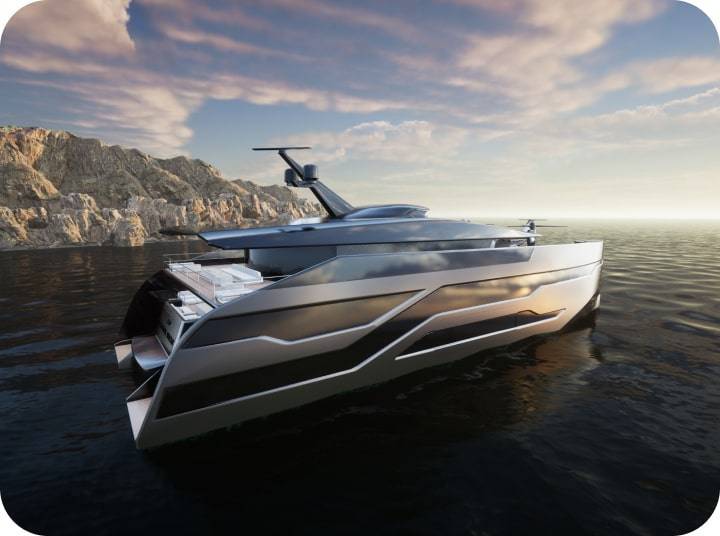
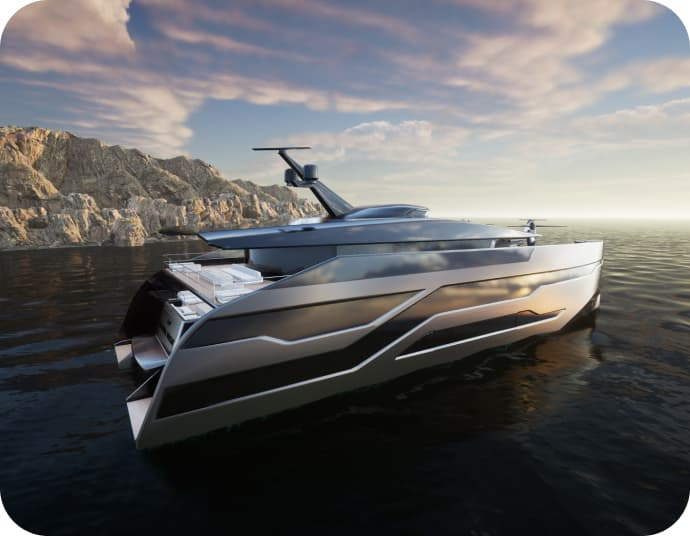
add images

diff --git a/src/partials/our-yachts.html b/src/partials/our-yachts.html
@@ -6,13 +6,36 @@
     <ul class="yachts-cards-list">
       <li class="yachts-card">
         <div class="yachts-card-img-container">
-          <img
-            class="yachts-card-img"
-            srcset="/img/img-yaht-1.jpg 1x, /img/img-yaht-1-2x.jpg 2x"
-            src="/img/img-yaht-1.jpg"
-            width="360"
-            alt="Luxary yacht Arrow"
-          />
+          <picture>
+            <source
+              srcset="
+                /img/img-yaht-1-large.jpg    1x,
+                /img/img-yaht-1-large-2x.jpg 2x
+              "
+              media="(min-width: 1440px)" />
+            <source
+              srcset="
+                /img/img-yaht-1-desktop.jpg    1x,
+                /img/img-yaht-1-2x-desktop.jpg 2x
+              "
+              media="(min-width: 1280px)" />
+            <source
+              srcset="
+                /img/img-yaht-1-medium.jpg    1x,
+                /img/img-yaht-1-2x-medium.jpg 2x
+              "
+              media="(min-width: 768px)" />
+            <source
+              srcset="
+                /img/img-yaht-1-mobile.jpg    1x,
+                /img/img-yaht-1-mobile-2x.jpg 2x
+              "
+              media="(max-width: 767px)" />
+            <img
+              class="yachts-card-img"
+              src="/img/img-yaht-1-mobile.jpg"
+              alt="Luxary yacht Arrow"
+          /></picture>
         </div>
         <div class="yachts-card-title">
           <p class="yachts-card-name">Arrow</p>
@@ -43,13 +66,30 @@
       </li>
       <li class="yachts-card">
         <div class="yachts-card-img-container">
-          <img
-            class="yachts-card-img"
-            srcset="/img/img-yaht-2.jpg 1x, /img/img-yaht-2-2x.jpg 2x"
-            src="/img/img-yaht-2.jpg"
-            width="360"
-            alt="Luxary yacht Bennety"
-          />
+          <picture>
+            <source
+              srcset="
+                /img/img-yaht-2-large.jpg    1x,
+                /img/img-yaht-2-large-2x.jpg 2x
+              "
+              media="(min-width: 1440px)" />
+            <source
+              srcset="
+                /img/img-yaht-2x-desktop.jpg   1x,
+                /img/img-yaht-2-2x-desktop.jpg 2x
+              "
+              media="(min-width: 1280px)" />
+            <source
+              srcset="
+                /img/img-yaht-2-medium.jpg  1x,
+                /img/img-yaht-2x-medium.jpg 2x
+              "
+              media="(max-width: 1279px)" />
+            <img
+              class="yachts-card-img"
+              src="/img/img-yaht-2-medium.jpg"
+              alt="Luxary yacht Bennety"
+          /></picture>
         </div>
         <div class="yachts-card-title">
           <p class="yachts-card-name">BENETTI OASIS 40M B...</p>
@@ -80,13 +120,24 @@
       </li>
       <li class="yachts-card">
         <div class="yachts-card-img-container">
-          <img
-            srcset="/img/img-yaht-3.jpg 1x, /img/img-yaht-3-2x.jpg 2x"
-            src="/img/img-yaht-3.jpg"
-            class="yachts-card-img"
-            width="360"
-            alt="Luxary yacht Belle Anna"
-          />
+          <picture>
+            <source
+              srcset="
+                /img/img-yaht-3-large.jpg    1x,
+                /img/img-yaht-3-large-2x.jpg 2x
+              "
+              media="(min-width: 1440px)" />
+            <source
+              srcset="
+                /img/img-yaht-3-desktop.jpg    1x,
+                /img/img-yaht-3-2x-desktop.jpg 2x
+              "
+              media="(max-width: 1439px)" />
+            <img
+              class="yachts-card-img"
+              src="/img/img-yaht-3-medium.jpg"
+              alt="Luxary yacht Belle Anna"
+          /></picture>
         </div>
         <div class="yachts-card-title">
           <p class="yachts-card-name">BELLE ANNA</p>

diff --git a/src/css/our-yachts.css b/src/css/our-yachts.css
@@ -1,5 +1,9 @@
 /* ----------------Our Yachts-------------- */
 
+* {
+  box-sizing: border-box;
+}
+
 .container.yachts {
   padding-bottom: 80px;
   margin: 0 auto;
@@ -89,14 +93,14 @@
 
 @media screen and (min-width: 768px) {
   .yachts-card {
-    max-width: 336px;
+    max-width: 392px;
+    margin: 0;
     flex-basis: calc((100% - 32px) / 2);
   }
 }
 
 @media screen and (min-width: 1280px) {
   .yachts-card {
-    max-width: 392px;
     flex-basis: calc((100% - 50px) / 3);
   }
 }
@@ -105,6 +109,7 @@
   border-radius: 24px;
   margin-bottom: 32px;
 }
+
 .yachts-card-title {
   display: flex;
   justify-content: space-between;
